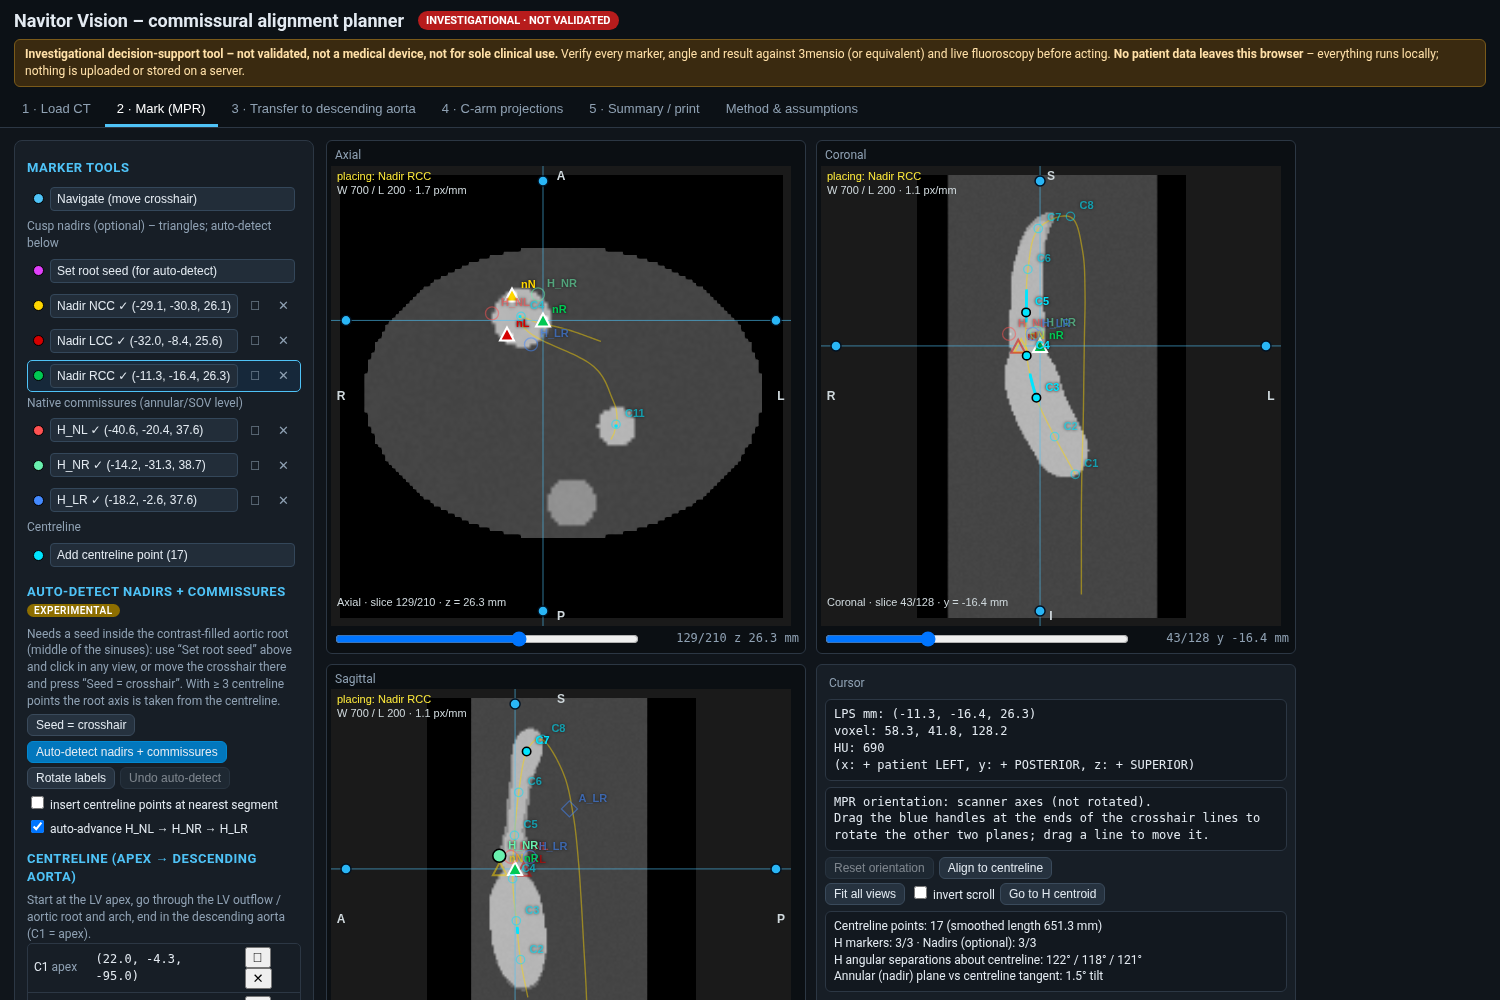
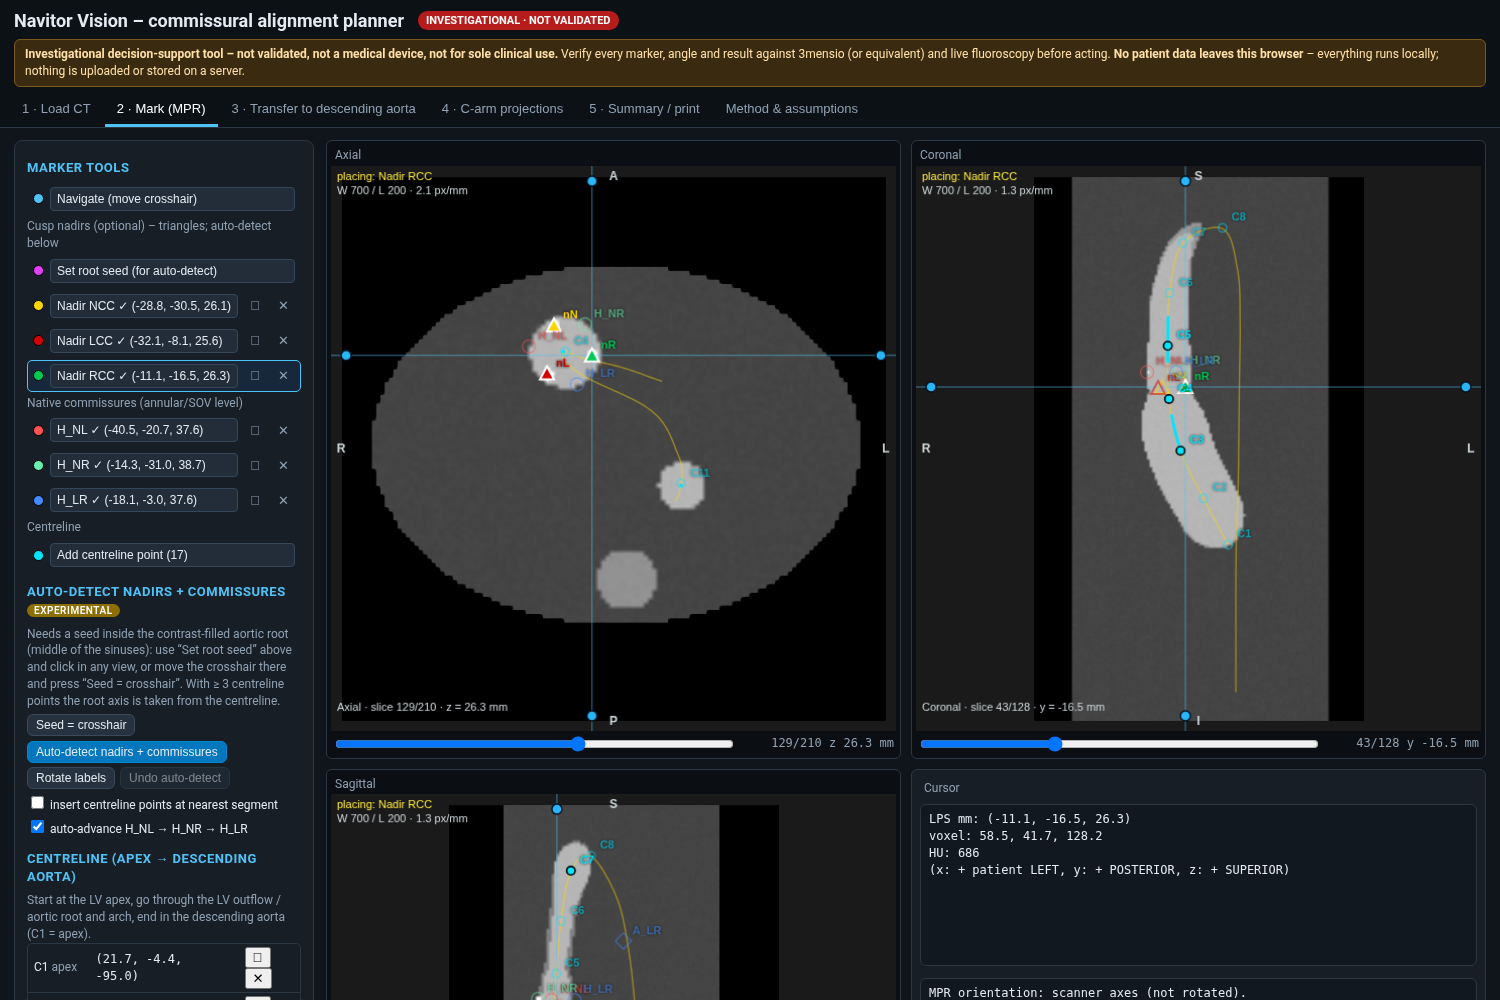
Mark tab: MPR 2x2 grid fills main-panel width (no vacant right gutter)
- .mprGrid columns: minmax(0,1fr) instead of max 480px; canvases width 100% square
- canvas intrinsic size 560 for sharper large display; sidebar stays 300px
- e2e: assert right gutter < 8px and each cell > 500px at 1500px viewport; refreshed 02_mark_mpr

diff --git a/tests/e2e.js b/tests/e2e.js
@@ -80,6 +80,31 @@ async function clickAt(pg, key, P, opts) { await setCross(pg, P); const [x, y] =
   await pg.waitForFunction(() => /Loaded 210 slices/.test(document.getElementById('loadStatus').textContent), null, { timeout: 60000 });
   await pg.click('#tabs button[data-tab=mark]');
   const ctrl = truth.demoCtrl().map((p) => p.map((v) => Math.round(v * 10) / 10));
+  await test('Mark tab MPR grid fills the main-panel width (no large vacant gutter on the right): 2x2 cells stretch beyond the old 480 px cap', async () => {
+    // ensure a wide viewport so the old max-480 layout would leave a visible gutter
+    await pg.setViewportSize({ width: 1500, height: 1000 });
+    await pg.waitForTimeout(200);
+    const r = await pg.evaluate(() => {
+      const layout = document.querySelector('#tab-mark .markLayout'), grid = document.querySelector('#tab-mark .mprGrid'), aside = document.getElementById('markPanel');
+      const lr = layout.getBoundingClientRect(), gr = grid.getBoundingClientRect(), ar = aside.getBoundingClientRect();
+      const cells = [...grid.querySelectorAll(':scope > .vwrap')].map((v) => { const b = v.getBoundingClientRect(); return { w: b.width, h: b.height }; });
+      const cs = getComputedStyle(grid), cols = cs.gridTemplateColumns.split(/\s+/).map((x) => parseFloat(x));
+      const canvas = document.getElementById('cvAxial').getBoundingClientRect();
+      return {
+        layoutW: lr.width, gridW: gr.width, asideW: ar.width, gap: lr.right - gr.right,
+        cells, cols, canvasW: canvas.width, canvasH: canvas.height,
+        gridFills: Math.abs(gr.right - lr.right) < 4 && gr.left > ar.right - 2
+      };
+    });
+    ok(r.gridFills, 'grid should reach the right edge of markLayout: gap=' + r.gap.toFixed(1) + ' layoutW=' + r.layoutW.toFixed(0) + ' gridW=' + r.gridW.toFixed(0));
+    ok(r.gap < 8, 'vacant gutter on the right must be < 8 px, got ' + r.gap.toFixed(1));
+    ok(r.cells.length === 4, '2x2 cells');
+    ok(r.cells.every((c) => c.w > 500), 'each cell wider than the old 480 px cap: ' + JSON.stringify(r.cells.map((c) => Math.round(c.w))));
+    ok(r.cols.length === 2 && r.cols.every((c) => c > 500), '1fr columns: ' + r.cols);
+    ok(r.canvasW > 500 && Math.abs(r.canvasW - r.canvasH) < 3, 'axial canvas fills its cell square: ' + r.canvasW + 'x' + r.canvasH);
+    ok(r.asideW >= 280 && r.asideW <= 320, 'sidebar stays ~300 px usable: ' + r.asideW);
+    console.log('       (markLayout ' + Math.round(r.layoutW) + ' px · grid ' + Math.round(r.gridW) + ' px · cell ~' + Math.round(r.cells[0].w) + ' px · right gutter ' + r.gap.toFixed(1) + ' px)');
+  });
   await test('place centreline (17 pts) + H + nadir markers with real mouse clicks on the axial view', async () => {
     await pg.click('[data-tool="cl"]');
     for (const P of ctrl) await clickAt(pg, 'axial', P);

diff --git a/index.html b/index.html
@@ -35,7 +35,11 @@ main{padding:12px 14px}
 table{border-collapse:collapse;width:100%;font-size:12px}th,td{border-bottom:1px solid var(--line);padding:3px 6px;text-align:left}th{color:var(--mut);font-weight:600}
 tr.sel td{background:#1d3a52}tr.click{cursor:pointer}tr.click:hover td{background:#22303d}
 .markLayout{display:grid;grid-template-columns:300px 1fr;gap:12px;align-items:start}
-.mprGrid{display:grid;grid-template-columns:repeat(2,minmax(300px,480px));gap:10px}
+.mprGrid{display:grid;grid-template-columns:repeat(2,minmax(0,1fr));gap:10px;width:100%;align-items:stretch}
+.mprGrid .vwrap{min-width:0;display:flex;flex-direction:column}
+.mprGrid .vwrap canvas{width:100%;height:auto;aspect-ratio:1/1;max-width:none}
+.mprGrid .vwrap.info{min-height:0}
+.mprGrid .vwrap.info .infobox,.mprGrid .vwrap.info #orientInfo{flex:1}
 .vwrap{background:#0b0f13;border:1px solid var(--line);border-radius:6px;padding:4px}
 .vwrap.info{background:var(--panel);padding:8px}.vwrap.wide{margin-top:8px}
 .vtitle{font-size:12px;color:var(--mut);padding:2px 4px}
@@ -191,9 +195,9 @@ label.rng.compact input[type=range]{accent-color:var(--acc)}
       </ul>
     </aside>
     <div class="mprGrid">
-      <div class="vwrap"><div class="vtitle">Axial</div><canvas id="cvAxial" width="460" height="460"></canvas></div>
-      <div class="vwrap"><div class="vtitle">Coronal</div><canvas id="cvCoronal" width="460" height="460"></canvas></div>
-      <div class="vwrap"><div class="vtitle">Sagittal</div><canvas id="cvSagittal" width="460" height="460"></canvas></div>
+      <div class="vwrap"><div class="vtitle">Axial</div><canvas id="cvAxial" width="560" height="560"></canvas></div>
+      <div class="vwrap"><div class="vtitle">Coronal</div><canvas id="cvCoronal" width="560" height="560"></canvas></div>
+      <div class="vwrap"><div class="vtitle">Sagittal</div><canvas id="cvSagittal" width="560" height="560"></canvas></div>
       <div class="vwrap info"><div class="vtitle">Cursor</div><div id="cursorInfo" class="infobox mono"></div>
         <div id="orientInfo" class="infobox mono small"></div>
         <div class="btnrow tight"><button class="btn sm" id="btnResetOrient" disabled title="back to the scanner axial / coronal / sagittal planes">Reset orientation</button><button class="btn sm" id="btnAlignCl" disabled title="rotate the planes so that the axial plane is perpendicular to the centreline at the cursor (needs ≥ 2 centreline points)">Align to centreline</button></div>

diff --git a/src/index.template.html b/src/index.template.html
@@ -101,9 +101,9 @@
       </ul>
     </aside>
     <div class="mprGrid">
-      <div class="vwrap"><div class="vtitle">Axial</div><canvas id="cvAxial" width="460" height="460"></canvas></div>
-      <div class="vwrap"><div class="vtitle">Coronal</div><canvas id="cvCoronal" width="460" height="460"></canvas></div>
-      <div class="vwrap"><div class="vtitle">Sagittal</div><canvas id="cvSagittal" width="460" height="460"></canvas></div>
+      <div class="vwrap"><div class="vtitle">Axial</div><canvas id="cvAxial" width="560" height="560"></canvas></div>
+      <div class="vwrap"><div class="vtitle">Coronal</div><canvas id="cvCoronal" width="560" height="560"></canvas></div>
+      <div class="vwrap"><div class="vtitle">Sagittal</div><canvas id="cvSagittal" width="560" height="560"></canvas></div>
       <div class="vwrap info"><div class="vtitle">Cursor</div><div id="cursorInfo" class="infobox mono"></div>
         <div id="orientInfo" class="infobox mono small"></div>
         <div class="btnrow tight"><button class="btn sm" id="btnResetOrient" disabled title="back to the scanner axial / coronal / sagittal planes">Reset orientation</button><button class="btn sm" id="btnAlignCl" disabled title="rotate the planes so that the axial plane is perpendicular to the centreline at the cursor (needs ≥ 2 centreline points)">Align to centreline</button></div>

diff --git a/src/css/style.css b/src/css/style.css
@@ -29,7 +29,11 @@ main{padding:12px 14px}
 table{border-collapse:collapse;width:100%;font-size:12px}th,td{border-bottom:1px solid var(--line);padding:3px 6px;text-align:left}th{color:var(--mut);font-weight:600}
 tr.sel td{background:#1d3a52}tr.click{cursor:pointer}tr.click:hover td{background:#22303d}
 .markLayout{display:grid;grid-template-columns:300px 1fr;gap:12px;align-items:start}
-.mprGrid{display:grid;grid-template-columns:repeat(2,minmax(300px,480px));gap:10px}
+.mprGrid{display:grid;grid-template-columns:repeat(2,minmax(0,1fr));gap:10px;width:100%;align-items:stretch}
+.mprGrid .vwrap{min-width:0;display:flex;flex-direction:column}
+.mprGrid .vwrap canvas{width:100%;height:auto;aspect-ratio:1/1;max-width:none}
+.mprGrid .vwrap.info{min-height:0}
+.mprGrid .vwrap.info .infobox,.mprGrid .vwrap.info #orientInfo{flex:1}
 .vwrap{background:#0b0f13;border:1px solid var(--line);border-radius:6px;padding:4px}
 .vwrap.info{background:var(--panel);padding:8px}.vwrap.wide{margin-top:8px}
 .vtitle{font-size:12px;color:var(--mut);padding:2px 4px}

diff --git a/README.md b/README.md
@@ -33,7 +33,7 @@ Browser: current Chrome/Edge/Firefox/Safari (ZIP input uses the built-in `Decomp
 
 1. **Load CT** – choose files / a folder / a `.zip`, or drag-drop (folders supported via `webkitGetAsEntry`). Series are listed; the largest loads automatically.
    Or press **Load synthetic phantom** (+ **Place demo markers**) – no patient data needed.
-2. **Mark (MPR)** – axial/coronal/sagittal with window/level presets. Pick a tool, click on a view to place a marker at that in-plane position on the view's *current slice*:
+2. **Mark (MPR)** – axial/coronal/sagittal + Cursor in a 2×2 grid that fills the main panel width (no vacant gutter); window/level presets. Pick a tool, click on a view to place a marker at that in-plane position on the view's *current slice*:
    optional cusp nadirs (NCC yellow ▲ / LCC red ▲ / RCC green ▲; set by hand or with **Auto-detect nadirs + commissures**, see below), **H_NL, H_NR, H_LR**, and **centreline points in the order LV apex → LV outflow/aortic root → arch → descending aorta** (C1 = apex; optionally "insert at nearest segment"). The order is checked against the root markers (first point must be the end nearer the aortic root; falls back to height) and a warning is shown if it looks reversed; all calculations then use the corrected direction anyway, so results do not depend on the direction you click in (the *Reverse order* button just fixes the numbering). Sessions saved by older versions (bifurcation → apex) are detected and converted when loaded.
    Scroll / two-finger swipe = slice (trackpad deltas accumulate, ~30 px per slice; one mouse-wheel notch = 1 slice), ↑/↓/PageUp/PageDown = slice on the hovered view (Shift = 5), slider + k/N label under each view, Ctrl+scroll or pinch = zoom, **drag the round handles at the ends of the blue crosshair lines to rotate the other two planes (oblique / double-oblique MPR, see below), drag a line to move that plane**, Shift/middle-drag = pan, right-drag = W/L, drag marker = move, Alt+click marker = delete, ⌖/✕ in the lists = go to / delete.
 3. **Transfer** – smoothed centreline (σ slider), rotation-minimising frame (RMF), annulus-level and descending-aorta-level sliders (arc length is measured from the LV apex end; default descending level = 80 mm of centreline beyond the highest centreline point, i.e. past the top of the arch), cross-sections at both levels (markers draggable), a **stretched (straightened) vessel view** with a full-width **Cut-plane angle** slider under it (synced twin in the sidebar) and a live **C-arm angulation overlay** (see below), a schematic polar plot and a table of angles/radii, and the **Overlap projection (2 right / 1 left)** panel (see below). Output: **A_NL, A_NR, A_LR** in patient LPS mm (draggable → marked "manual"; reset button).
@@ -168,7 +168,7 @@ bash tests/run_all.sh                          # or: npm test
 
 Everything the tests generate is untracked and lives under `tests/out/` (log: `tests/out/results.txt`, per-step logs: `tests/out/steps/`, e2e screenshots: `tests/out/screenshots/`), so a test run leaves `git status` clean. The committed images in `screenshots/` are reference screenshots of the phantom; refresh them deliberately with `NVAP_SHOTS=screenshots bash tests/run_all.sh`. Unit tests alone (no browser, no venv): `node tests/test_math.js`, `test_dicom.js`, `test_mpr.js`, `test_codecs.js`, `test_nadir.js` (~1 min).
 
-Last full run: **33 maths + 8 DICOM/geometry + 8 oblique-MPR + 11 codec + 17 nadir/commissure auto-detect + 76 headless-Chrome checks, plus both Python oracle checks (0 mismatches), all passed.**
+Last full run: **33 maths + 8 DICOM/geometry + 8 oblique-MPR + 11 codec + 17 nadir/commissure auto-detect + 77 headless-Chrome checks, plus both Python oracle checks (0 mismatches), all passed.**
 
 * `tests/test_math.js` – beam/image-basis geometry; straight-axis ring with 0/120/240° markers → AP is 2:1 with 6 mm margin; **known rotation → known angle** (rotate markers 25° → best LAO = 25° and −35°, margin = ρ/2, independent of CRAN); **tilted axis constructed so LAO 8°/CRAN 19° is the exact 2:1 optimum → recovered**; fast plane-based evaluation vs explicit 2D projection agree (signed offsets, side, class; 2000 random cases); RMF orthonormal and twist-free on a helix; angle transfer on a planar arc preserves the Frenet-relative angle; invariance to the RMF start vector; ranking/NMS properties.
 * Centreline order (apex → descending aorta) in `test_math.js` + `e2e.js`: order check (root-marker distance, height fallback, tie, <2 points); the same geometry entered in either direction gives **identical** A markers, annulus/descending levels, projection scan, rankings and selection; a non-canonicalised reversed centreline still agrees to < 0.05 mm; flow-axis hint sign; warning + *Reverse order* button; *Align to centreline* independent of entry order; session v2 round-trip and automatic conversion of old (bifurcation → apex) sessions incl. level conversion; centreline-only auto-detect scans the apex end for both entry orders.
